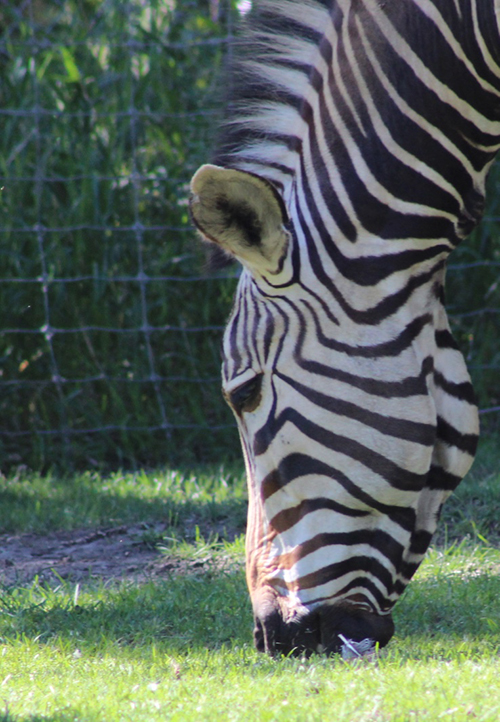
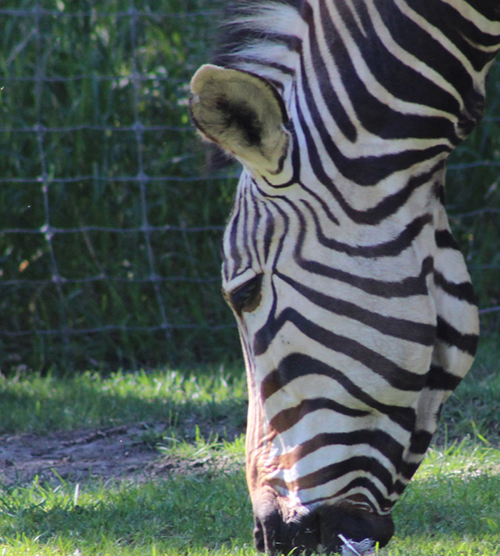
photo size, colors, text updated

diff --git a/js/scripts.js b/js/scripts.js
@@ -25,7 +25,7 @@ function Photo(imgFile, animal, tags, color) {
 }
 var photos = [
 	new Photo("Images/zebra.jpg", 
-	"Penguin",["zoo", "zebra", "mammal"], "#0a3410"),
+	"Zebra",["zoo", "zebra", "mammal"], "#6fde50"),
 
 	new Photo ("Images/flamingo.jpg", "Flamingo",
  	["zoo", "flamingo", "bird"], "#b57491"),
@@ -52,7 +52,7 @@ var photos = [
 ,["zoo", "sheep", "mammal"], "#ffd561"),
 
 	new Photo("Images/gorilla.jpg", "Gorilla"
-,["zoo", "gorilla", "mammal"], "black")
+,["zoo", "gorilla", "mammal"], "#949192")
 
 ]
 

diff --git a/css/styles.css b/css/styles.css
@@ -12,21 +12,23 @@ img {
 }
 
 body{
-	color: white;
+	color: black;
 	background-color: #FAE1FA;
 	font-size: 15px;
+	text-align: center;
 }
 
 .photos {
-	color: white;
+	font-size: 25px;
+	/*display: inline-flex;*/
 }
 
 
 div > div{
 	margin-left: 50px;
 	margin-top: 50px;
-	border-left: 20px;
-	padding: 30px;
+	margin-right: 50px;
+	padding: 40px;
 	width: 700px;
 	height: 700px;
 }
@@ -34,3 +36,10 @@ div > div{
 .active{
 	background: pink;
 }
+
+
+.buttons{
+	padding:30px;
+	margin-left: 40px;
+}
+

diff --git a/index.html b/index.html
@@ -7,6 +7,8 @@
 </head>
 <body>
 	
+	<h1>Zoo Animals</h1>
+
 	<div class ="buttons"></div>
 	<div class="photos"></div>
 
@@ -14,5 +16,9 @@
 
 	<script src="https://code.jquery.com/jquery-3.5.1.min.js"></script>
 	<script src='js/scripts.js'></script>
+
+	<footer>
+		<hr>
+		<p>Photos by Becky Friesen</p></footer>
 </body>
 </htmL>
